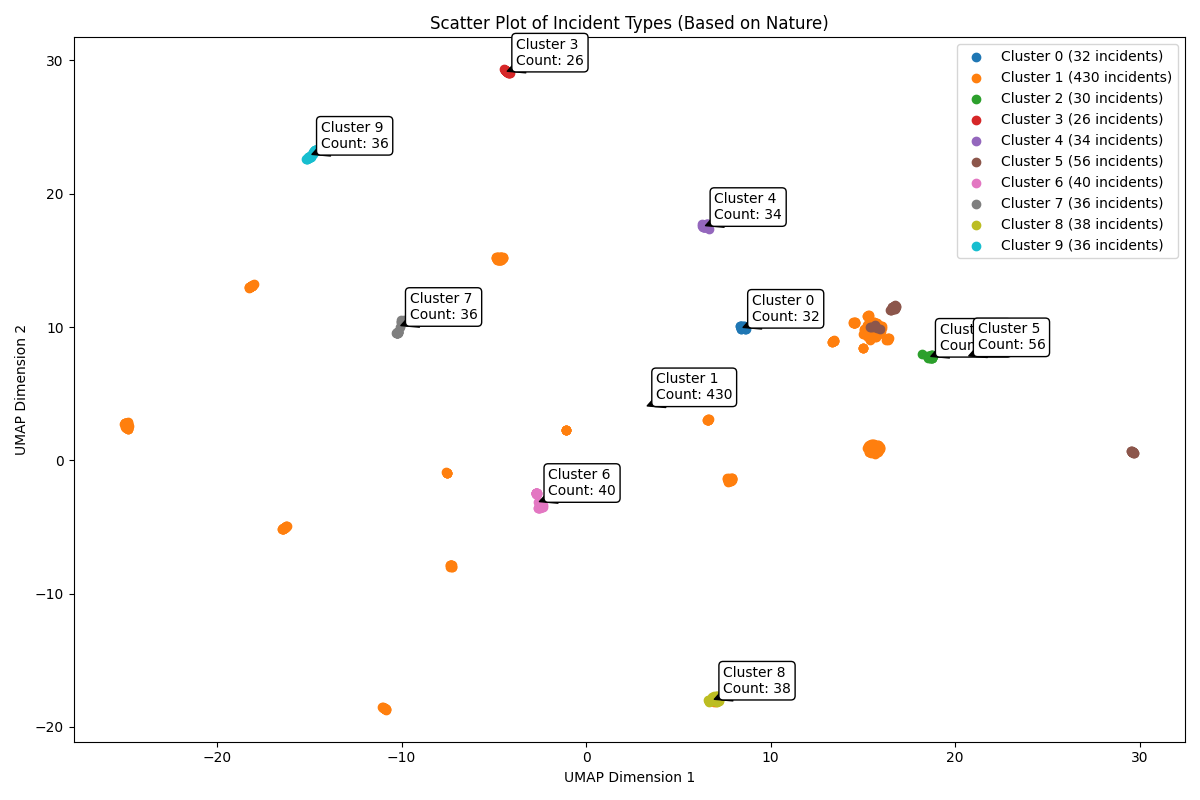
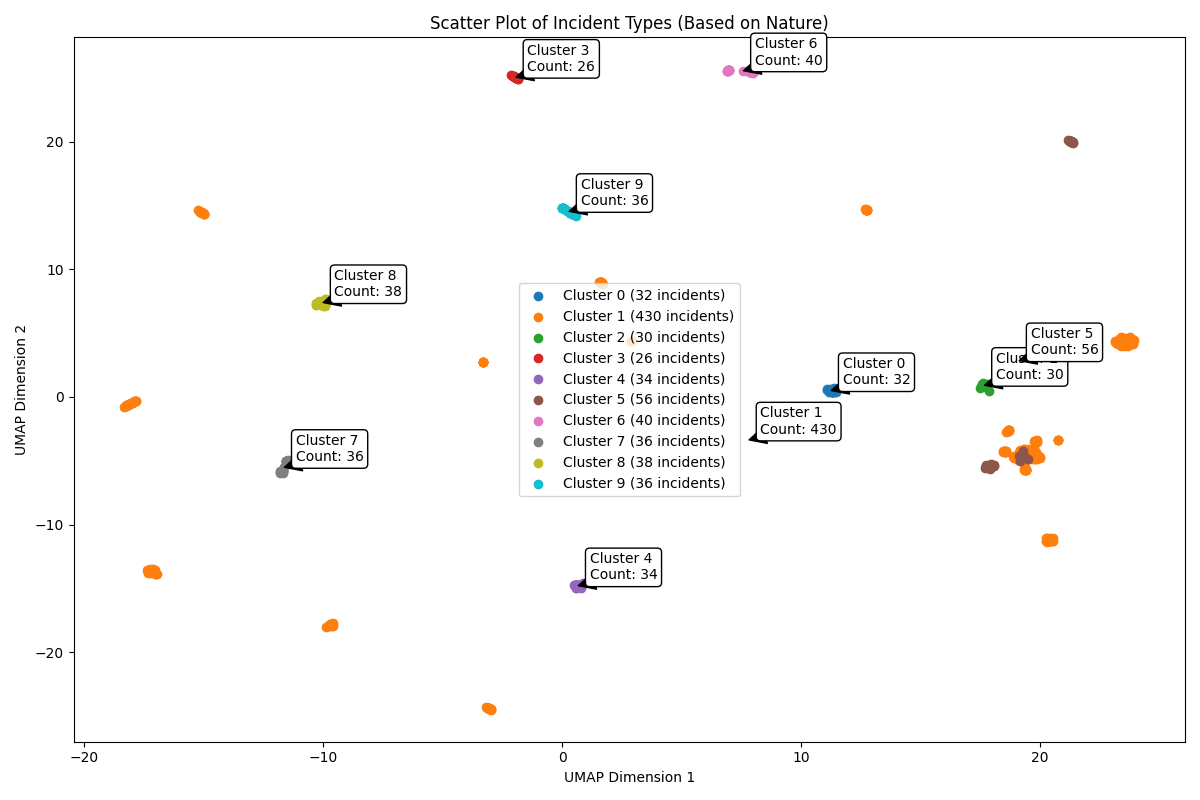
Added Readme

diff --git a/README.md b/README.md
@@ -1,96 +1,122 @@
-# cis6930fa24 -- Project0
+## Project: cis6930fa24-project3
 
-Name: Vijay Kumar Reddy Gade
+### Name: Vijay Kumar Reddy Gade
 
-## Assignment Description 
+---
 
-this project automatically extracts incident data from the norman, oklahoma police department’s incident report pdf files. it processes the incident information and stores it in a sqlite database, which can then be queried for a summary of incident types. specific fields like the date/time, incident number, location, nature, and ori are parsed and stored in a database.
+### **What is this Project About?**
 
-## HOW TO INSTALL
+This project is all about processing incident report PDFs or URLs and making sense of the data through meaningful visualizations. It allows users to upload or provide URLs for incident reports, processes the data, and generates insightful visuals like bar charts, scatter plots, and heatmaps. The goal is to help analyze incident trends dynamically and visually.
 
-1. INSTALL PIPENV IF YOU DON'T HAVE IT:
+---
+
+### **How to Install**
+
+1. **Install Pipenv**  
+   First, you'll need Pipenv to manage dependencies. Install it using this command:  
    ```bash
    pip install pipenv
    ```
 
-2. INSTALL THE PROJECT DEPENDENCIES:
+2. **Install the Required Dependencies**  
+   Navigate to the project directory and run:  
    ```bash
    pipenv install
    ```
 
-3. MAKE SURE YOU HAVE `pypdf` INSTALLED VIA THE `PIPFILE`.
+3. **Run the Application**  
+   Start the application with the following command:  
+   ```bash
+   pipenv run python project0/main.py
+   ```
 
-## HOW TO RUN
+---
 
-TO RUN THE SCRIPT WITH A SAMPLE PDF URL, USE THE FOLLOWING COMMAND:
+### **How Does It Work?**
 
-```bash
-pipenv run python project0/main.py --incidents <URL_OF_INCIDENT_PDF>
-```
-- Testing:
-```bash
-pipenv run python -m pytest
-```
-EXAMPLE:
+Once the application is running, open your browser and go to `http://127.0.0.1:5000`. Here’s what you can do:
 
-```bash
-pipenv run python project0/main.py --incidents "https://www.normanok.gov/sites/default/files/documents/2024-08/2024-08-07_daily_incident_summary.pdf"
-```
+- **Upload Incident Reports**  
+  - Enter one or more URLs for incident reports.
+  - Or, upload PDFs containing incident data.
 
-DEMO OF EXECUTION:
+- **Visualizations**  
+  After processing, the application generates:
+  1. **Bar Chart**: See how many incidents occurred for each type.
+  2. **Scatter Plot**: View clusters of incident types in a reduced dimensional space using UMAP.
+  3. **Heatmap**: Understand how incidents are distributed across different hours of the day.
 
-[![Watch the video](https://img.youtube.com/vi/tlGpP4r7wa0/0.jpg)](https://www.youtube.com/watch?v=tlGpP4r7wa0)
+---
 
+### **How to Use It**
 
-## FUNCTIONS
+#### 1. Upload Your Data
+Provide URLs or PDFs through the upload page. The app processes the reports and redirects you to the visualization page.
 
-#### `fetchincidents(url)`
-- Downloads the PDF file from the specified URL and saves it locally and returns the path of the saved PDF.
+#### 2. Check Out the Visualizations
+- **Bar Chart**: Understand the frequency of incidents by type.
+- **Scatter Plot**: See dynamic clusters of similar incidents grouped together.
+- **Heatmap**: Analyze incident trends by time of day and type.
 
-#### `extractincidents(pdf_file_path)`
-- Extracts incident information from the PDF and returns A list of dictionaries, each containing incident details like incident time, number, location, nature, and ORI.
+#### 3. Interactive Features
+- Navigate to view individual plots like the bar chart, scatter plot, or heatmap.
+- Get a summary of clusters and incident types.
 
-#### `createdb()`
-- Creates a SQLite database (`normanpd.db`) in the `resources/` directory and returns A connection object to the SQLite database.
+---
 
-#### `populatedb(db, data)`
-- Inserts the extracted incident data into the database and SQLite database connection and the extracted incident data.
+### **What Does Each Function Do?**
 
-#### `status(db)`
-- Prints a summary of incidents, grouped by nature, in alphabetical order.
+- **`upload_file`**: Handles the upload of URLs or PDFs and sends the data for processing.
+- **`process_files`**: Processes the uploaded reports, generates visualizations, and summarizes incident clusters.
+- **`fetchincidents`**: Downloads incident reports from provided URLs.
+- **`extractincidents`**: Extracts meaningful data from uploaded incident PDFs.
+- **`suggest_optimal_clusters`**: Dynamically calculates the best number of clusters using silhouette scores.
 
-## DATABASE DEVELOPMENT
+---
 
-- **Schema**: A table named `incidents` is created with the following columns:
-  - `incident_time`: TEXT
-  - `incident_number`: TEXT
-  - `incident_location`: TEXT
-  - `nature`: TEXT
-  - `incident_ori`: TEXT
+### **Are There Any Bugs?**
 
-- **Approach**: The data is extracted using regex patterns and parsed into a structured format. It is then inserted into a SQLite database for efficient querying and storage.
+Yes, there are a few known issues:
+1. **Missed Incidents**: If multiple URLs or PDFs are processed simultaneously, the system might miss one or two incidents.
+2. **Heatmap Scaling**: When incidents are sparse, the heatmap might look a little off.
 
-## BUGS AND ASSUMPTIONS
+---
 
-- **Bugs**:
-  - **Location Formatting Issue**: The current regex patterns may fail to capture locations that are not entirely in uppercase (e.g., `504 N Ponca AV` instead of `504 N PONCA AV`). This issue occurs because the parser expects locations to always be uppercase. This causes failures in parsing locations for incidents where mixed case is used.
-  - **Handling of Line Breaks**: If unexpected line breaks occur within the PDF text, some incidents might not be captured correctly.
+### **Some Assumptions**
 
-- **Assumptions**:
-  - The format of the incident reports will remain consistent.
-  - All location data is expected to be in uppercase.
-  - The extracted fields such as date/time, location, and nature will follow a predictable format that can be parsed using regular expressions.
+1. URLs provided for incident reports are valid and accessible.
+2. PDFs follow a standard format that allows for consistent data extraction.
 
-## CHALLENGES
+---
 
-1. **Inconsistent Case in Locations**: Some incident locations use mixed case (e.g., `504 N Ponca AV`), which can lead to failed extraction since the regex expects uppercase. This inconsistency should be accounted for in future versions of the parser.
+### **What Resources Helped Me?**
 
-2. **PDF Format Variability**: If the police department changes how the PDFs are formatted (e.g., changes in text alignment or the order of data), the extraction logic may break, requiring updates to the regex patterns.
+Here are some of the resources that I referred to while building this project:
+1. [Flask Documentation](https://flask.palletsprojects.com/)
+2. [Matplotlib Documentation](https://matplotlib.org/)
+3. [UMAP Documentation](https://umap-learn.readthedocs.io/)
+4. [Scikit-learn Documentation](https://scikit-learn.org/)
+5. [Pandas Documentation](https://pandas.pydata.org/)
 
-## FUTURE IMPROVEMENTS
+---
 
-- **Location Parsing**: Implement more robust location parsing to handle both uppercase and mixed-case locations.
-- **Regex Flexibility**: Enhance the regular expressions to better handle edge cases and inconsistencies in the PDF text format.
-- **Error Reporting**: Add detailed error logs to better track issues during extraction and database insertion.
+### **Challenges Faced**
+
+1. Figuring out dynamic clustering with silhouette scores was tricky. It took some time to get it right, especially with larger datasets.
+2. Making sure data was extracted accurately from different PDFs required a lot of testing.
+3. Scaling visualizations for large data volumes while keeping them clear and readable was a bit of a challenge.
+
+---
+
+### **Future Improvements**
+
+1. **Speeding Up Processing**  
+   Parallelize the processing of multiple PDFs and URLs to make it faster.
+
+2. **Better Visualizations**  
+   Introduce more interactive charts using tools like Plotly or Dash.
+
+3. **Enhanced Error Handling**  
+   Add better messages for unsupported file formats or inaccessible URLs.
 
 ---
